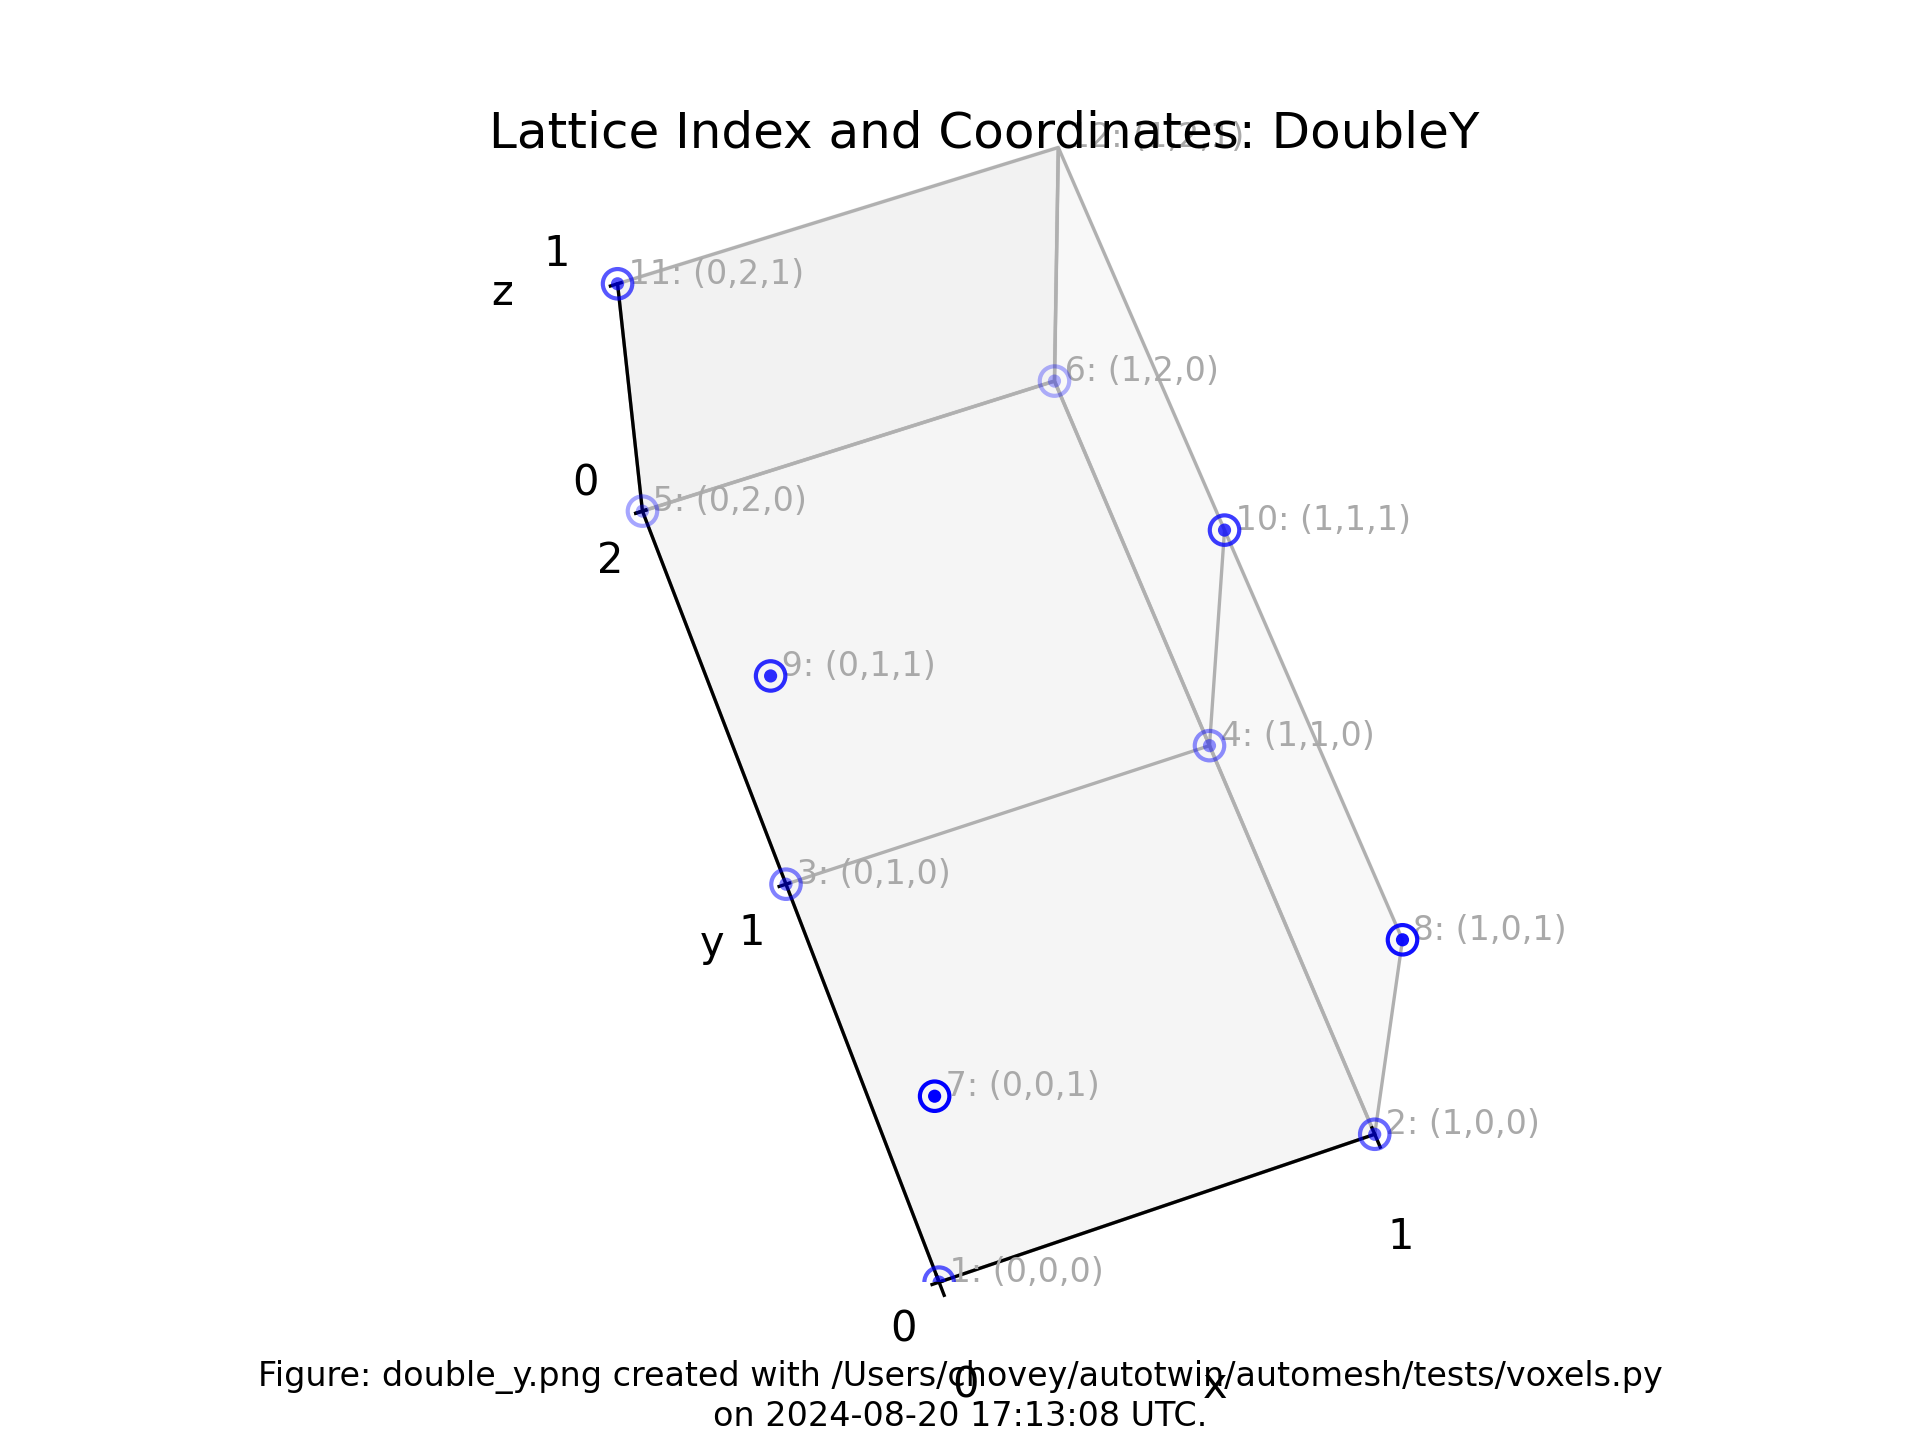
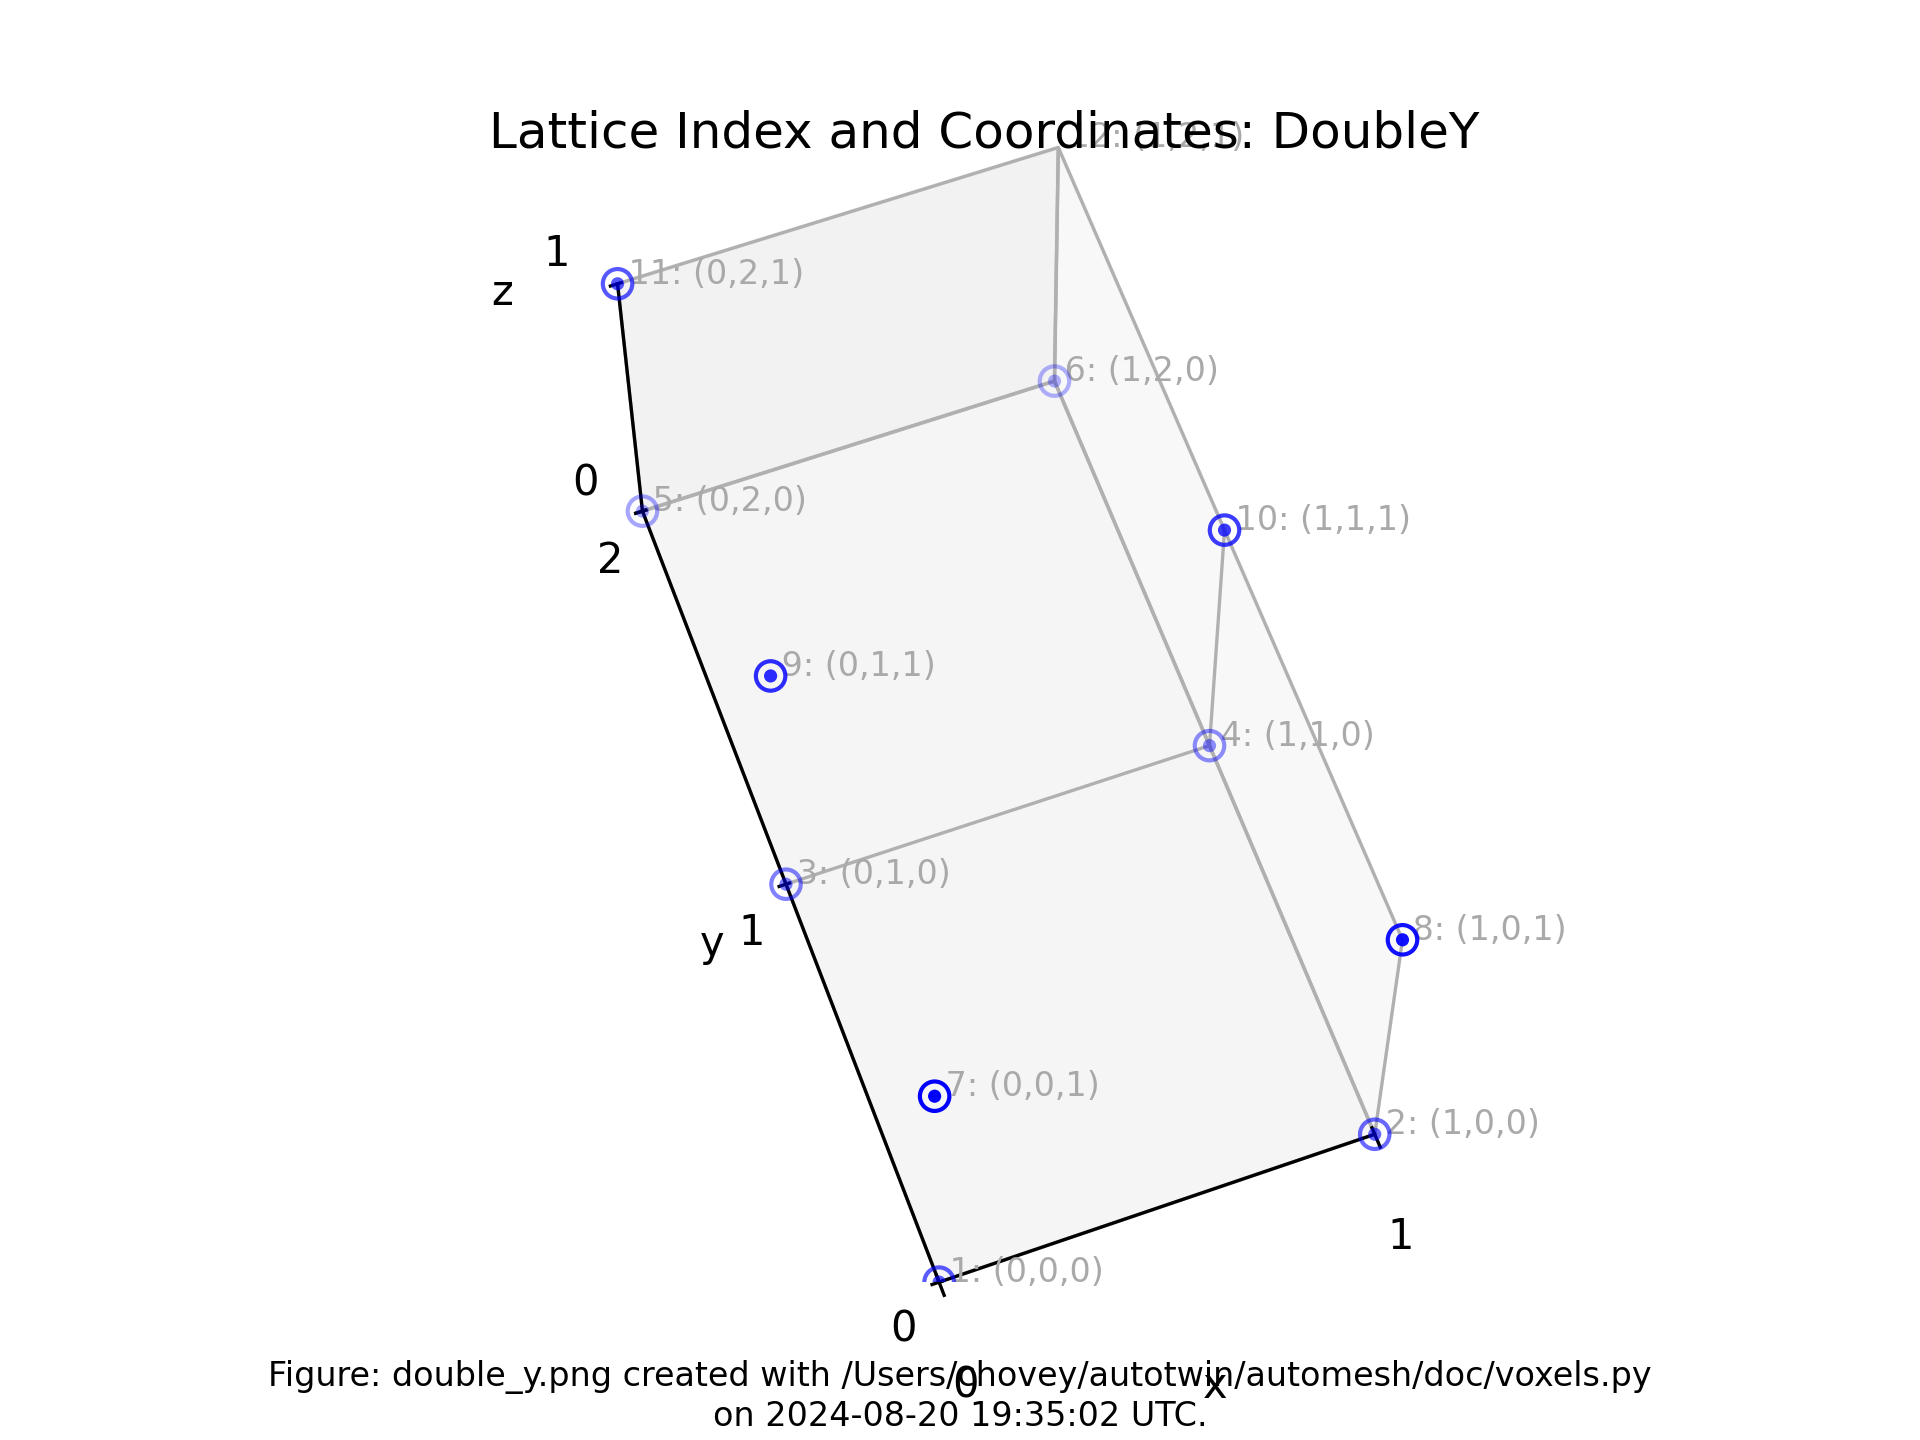
move from tests to doc folder

Changed region(s): [[0.125, 0.9375, 0.875, 1.0]]

diff --git a/doc/voxels.py b/doc/voxels.py
@@ -8,8 +8,9 @@ Example:
 
     cd ~/autotwin/automesh
     source .venv/bin/activate
-    python tests/voxels.py
+    # python tests/voxels.py
     # python src/tests/voxels.py
+    python doc/voxels.py
 
 Ouput:
     The `output_npy` file data structure
@@ -668,10 +669,8 @@ def main():
         )
 
         # Label the lattice coordinates
-        for idx, label in enumerate(labels):
-            # ax.text(x[idx], y[idx], z[idx], label, color="darkgray",
-            # fontsize=8)
-            ax.text(x[idx], y[idx], z[idx], label, color="darkgray")
+        for n, label in enumerate(labels):
+            ax.text(x[n], y[n], z[n], label, color="darkgray", fontsize=8)
 
         # Plot the nodes included in the finite element connectivity
         ax.scatter(
